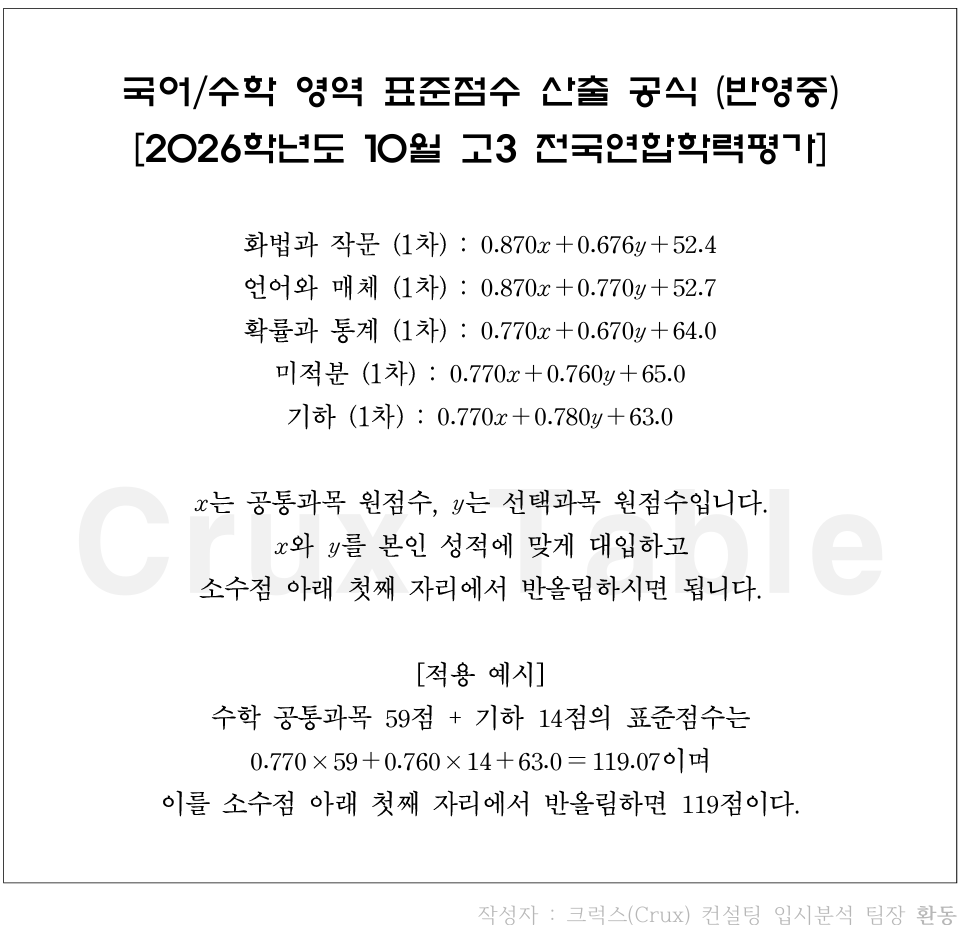
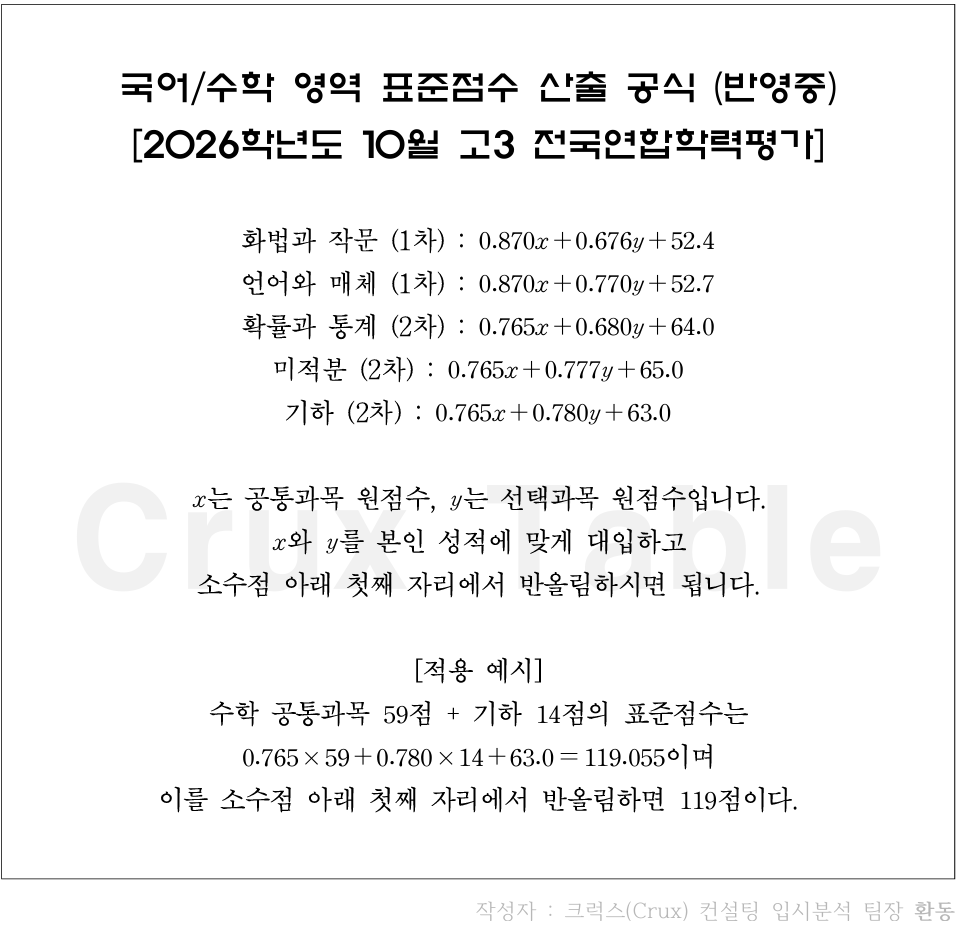
2610 2차

diff --git a/js/exam-config.js b/js/exam-config.js
@@ -14,11 +14,14 @@ const ExamConfig = (() => {
     const foreignLanguages = ["독일어", "프랑스어", "스페인어", "중국어", "일본어", "러시아어"];
     // 아직 공개하지 않은 시험의 기존 안내 문구를 보존한다.
     const releaseNotices = [
-        { year: "2027", months: ["3", "5", "7"], date: "na월 na일(na)" },
-        { year: "2027", months: ["6", "9"], types: ["1st", "2nd"], date: "na월 na일(na)" },
+        { year: "2027", months: ["3"], date: "na월 na일(na)" },
+        { year: "2027", months: ["5"], date: "na월 na일(na)" },
+        { year: "2027", months: ["6"], types: ["1st", "2nd"], date: "na월 na일(na)" },
         { year: "2028", months: ["6"], types: ["sat"], date: "na월 na일(na)" },
+        { year: "2027", months: ["7"], date: "na월 na일(na)" },
+        { year: "2027", months: ["9"], types: ["1st", "2nd"], date: "na월 na일(na)" },
         { year: "2028", months: ["9"], types: ["sat"], date: "na월 na일(화)" },
-        { year: "2028", months: ["10"], date: "na월 na일(목)" },
+        { year: "2027", months: ["10"], date: "na월 na일(목)" },
         { year: "2027", months: ["11"], types: ["sat"], date: "12월 11일(금)" },
     ];
 

diff --git a/js/data.js b/js/data.js
@@ -9171,9 +9171,9 @@ let data = {
 ],
 "수학": [
     {
-        "확률과 통계": [0.770, 0.670, 64.0],
-        "미적분": [0.770, 0.760, 65.0],
-        "기하": [0.770, 0.780, 63.0]
+        "확률과 통계": [0.765, 0.680, 64.0],
+        "미적분": [0.765, 0.777, 65.0],
+        "기하": [0.765, 0.780, 63.0]
     },
 ["142", "99.85", "1"],
 ["140", "99.67", "1"],
